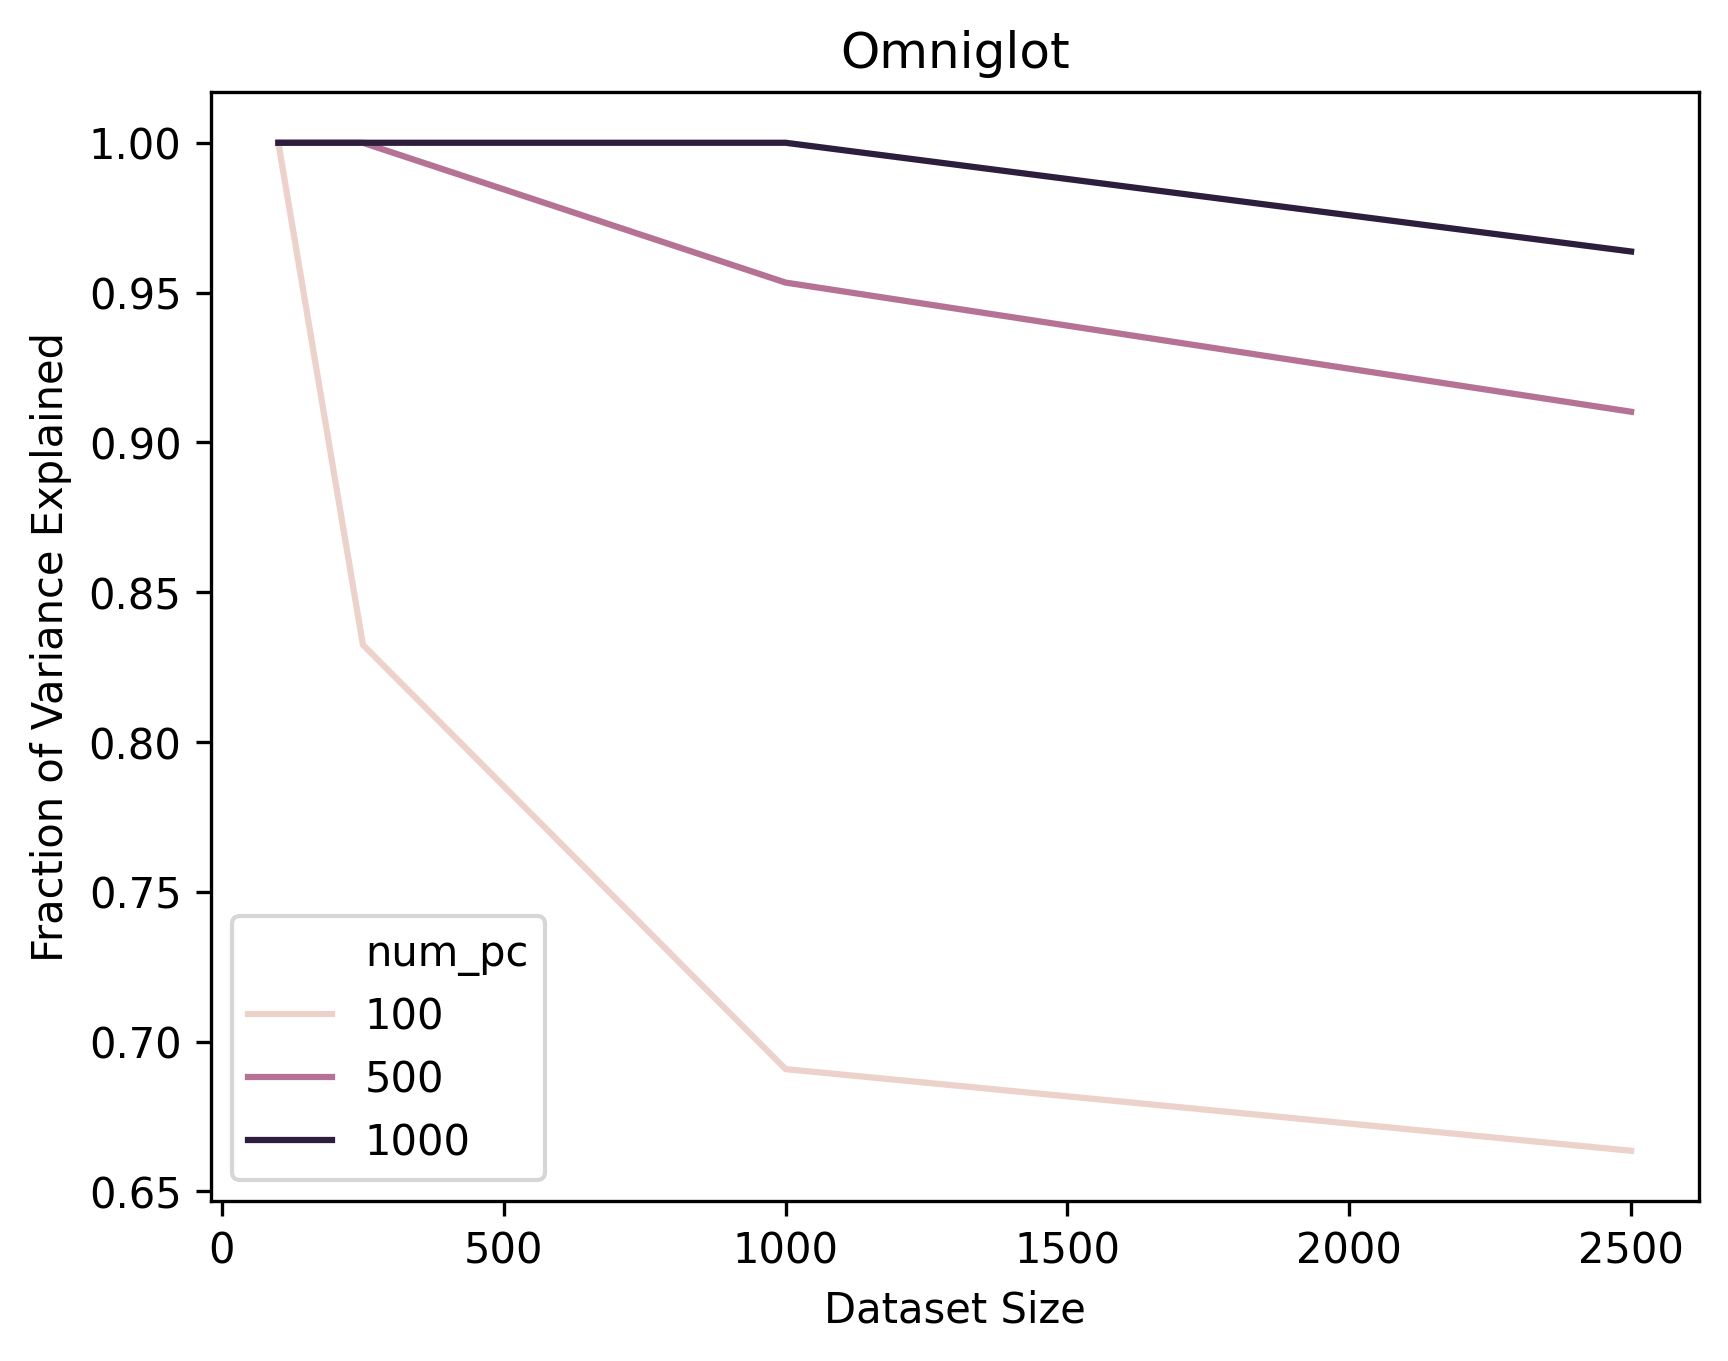
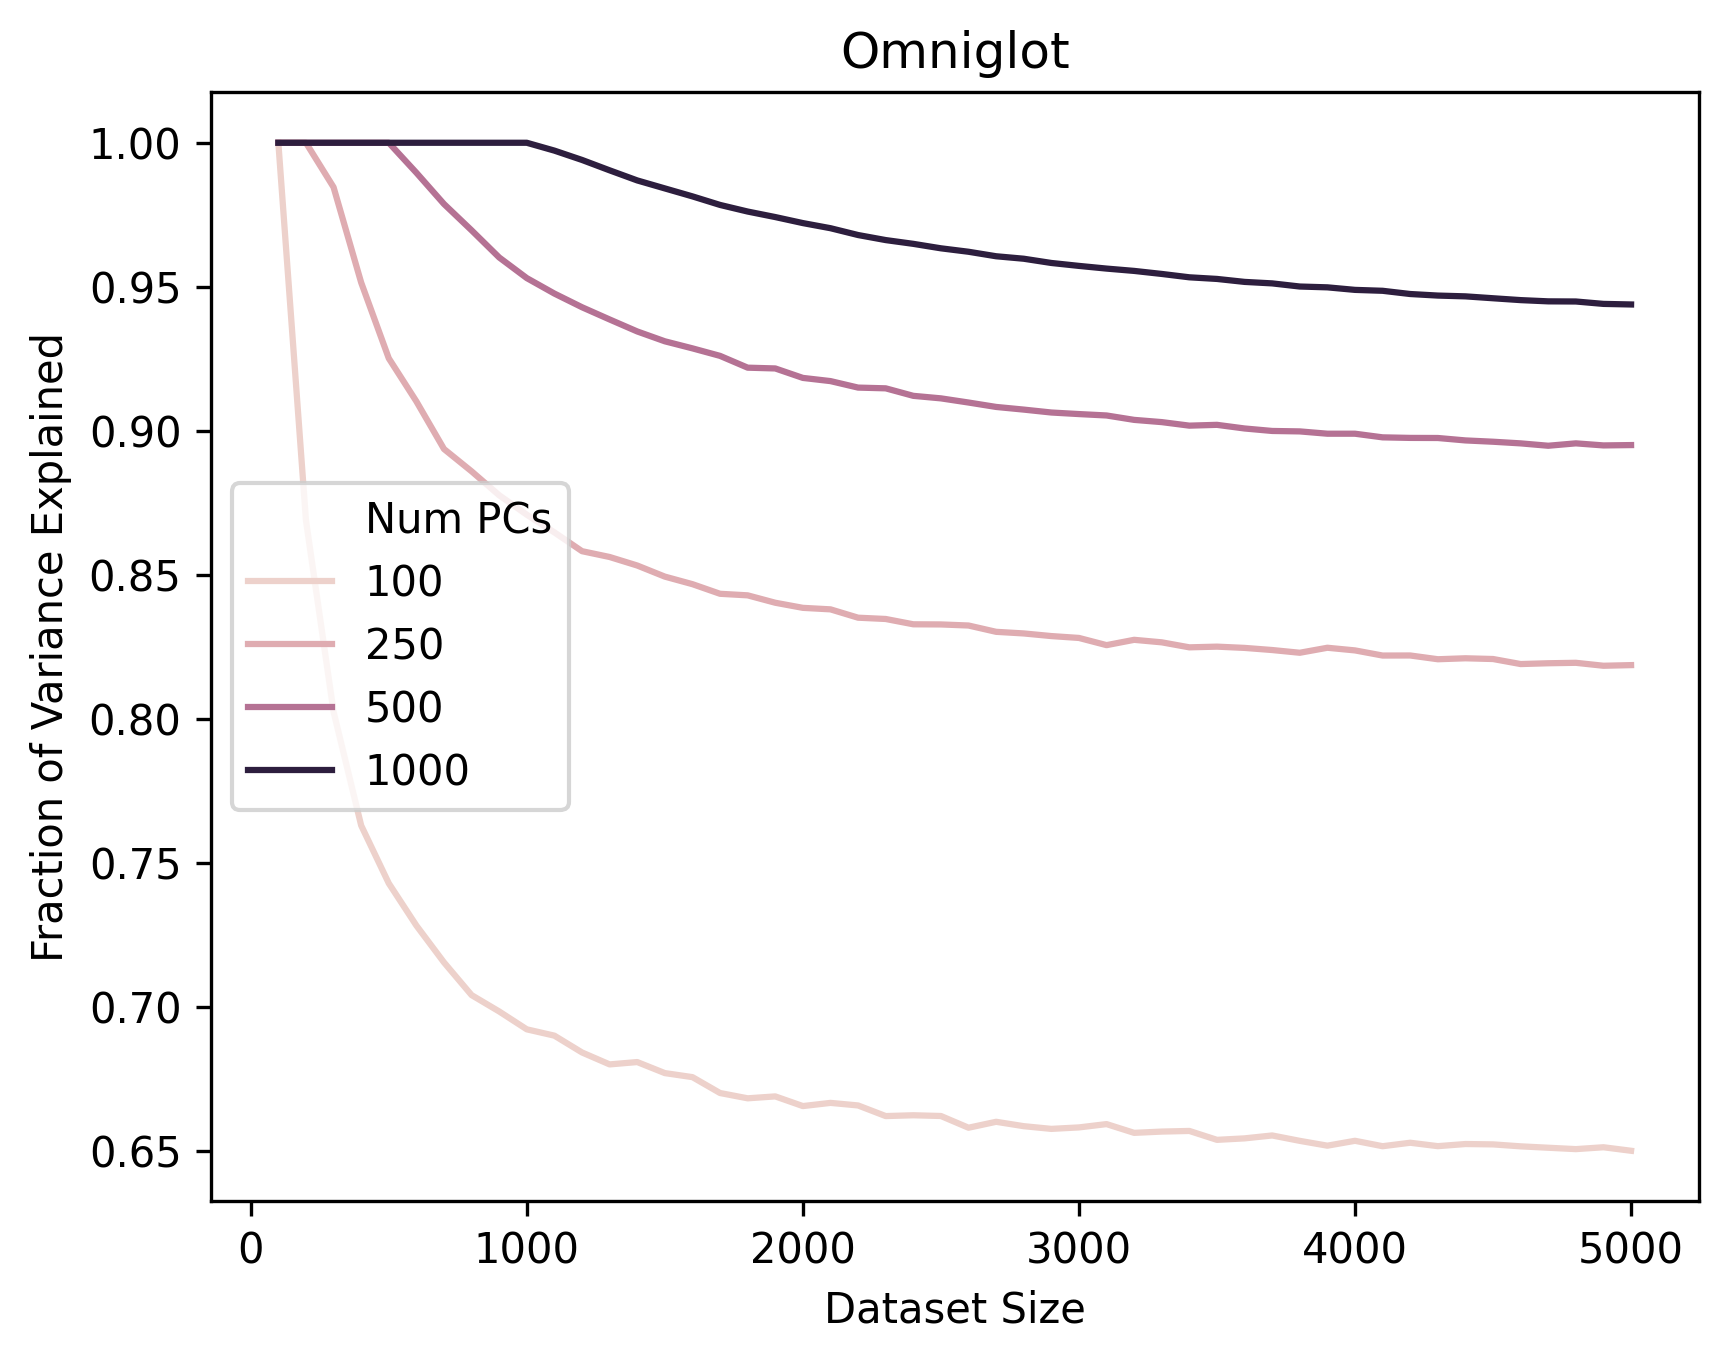
Added new plots.

diff --git a/00_motivation/frac_var_explained_by_fixed_num_pcs.py b/00_motivation/frac_var_explained_by_fixed_num_pcs.py
@@ -20,8 +20,8 @@ plot_dir = '00_motivation'
 
 
 datasets = ['Omniglot', 'MNIST']
-num_pcs = [100, 500, 1000, 1500]
-dataset_sizes = [100, 250, 1000, 2500]
+num_pcs = [100, 250, 500, 1000]
+dataset_sizes = np.arange(100, 5001, 100)
 for dataset in datasets:
     if dataset == 'MNIST':
         mnist_results = utils.data_real.load_mnist_dataset(
@@ -51,11 +51,11 @@ for dataset in datasets:
                 (num_pc, dataset_size, frac_var_explained))
     df = pd.DataFrame(
         frac_var_explained_by_num_pcs_and_dataset_size,
-        columns=['num_pc', 'dataset_size', 'frac_var_explained'])
+        columns=['Num PCs', 'dataset_size', 'frac_var_explained'])
     sns.lineplot(data=df,
                  x='dataset_size',
                  y='frac_var_explained',
-                 hue='num_pc',
+                 hue='Num PCs',
                  legend='full',  # necessary to force seaborn to not try binning based on hue
                  )
     plt.title(f'{dataset}')
